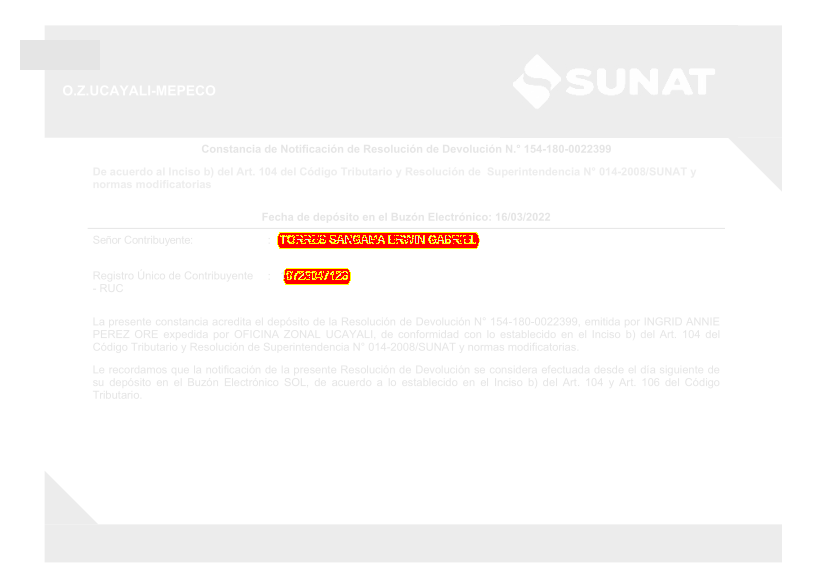
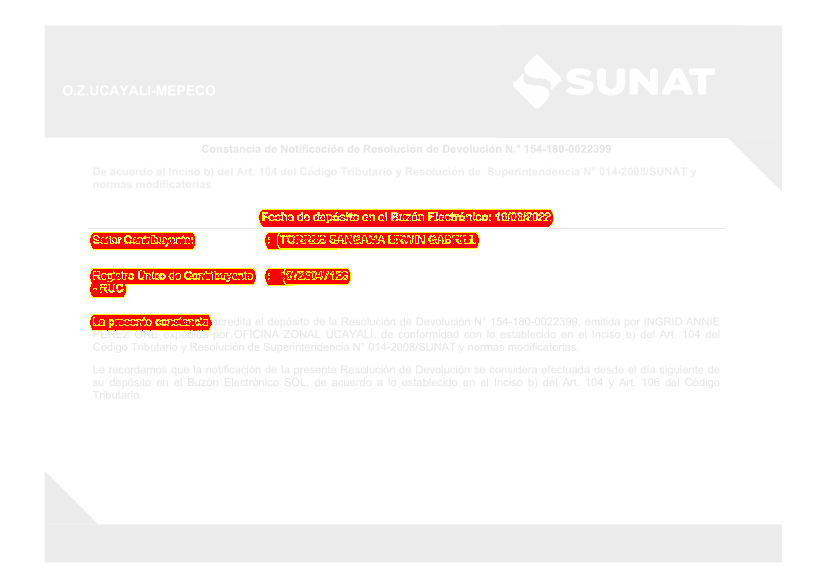
Desabilitando algunas funciones

Changed region(s): [[0.0908, 0.3699, 0.3632, 0.5856], [0.3027, 0.339, 0.6659, 0.4315], [0.0, 0.0616, 0.0605, 0.1233]]

diff --git a/cypress/e2e/3-test/examplePdfTest.cy.js b/cypress/e2e/3-test/examplePdfTest.cy.js
@@ -2,7 +2,7 @@
 
 //Con describe agrupamos nuestro casos de prueba, para ello le damos un nombre
 describe("cy.task", () => {
-    //cy.task -> es para ejucutar un evento,metodo de node.js
+    //cy.task -> es para ejucutar un evento,que se encuentra dentro de cypress.config.js
     //En este caso estamos llamando al metodo comparePdfOnePage que se encuentra en n
     it('Comparar version 1 PDFs', () => {
         cy.task('comparePdfOnePage',
@@ -10,10 +10,8 @@ describe("cy.task", () => {
                 actual: "archivoO.pdf",
                 baseline: "baselineM.pdf"
             })
-            .should('equals', true)
-            
+            .should('equal', true)
+
     })
-
-
 
 })

diff --git a/cypress.config.js b/cypress.config.js
@@ -23,8 +23,8 @@ module.exports = defineConfig({
           let compareResult = await new comparePdf(config1)
           .actualPdfFile(actual)
           .baselinePdfFile(baseline)
-          .addMask(0,{x0:20, y0:40,x1:100,y1:70})
-          .addMask(1,{x0:330, y0:40,x1:410,y1:70})
+          //.addMask(0,{x0:20, y0:40,x1:100,y1:70})
+          //.addMask(1,{x0:330, y0:40,x1:410,y1:70})
           .compare();
           console.log(compareResult);
           return compareResult.status == 'passed'

diff --git a/config.js b/config.js
@@ -14,8 +14,8 @@ module.exports = {
             quality: 70,
             tolerance: 0,
             threshold: 0.05,
-            cleanPngPaths: true,
-            matchPageCount: true,
+            //cleanPngPaths: false,
+            matchPageCount: true
             //disableFontFace: true,
             //verbosity: 0
         }
